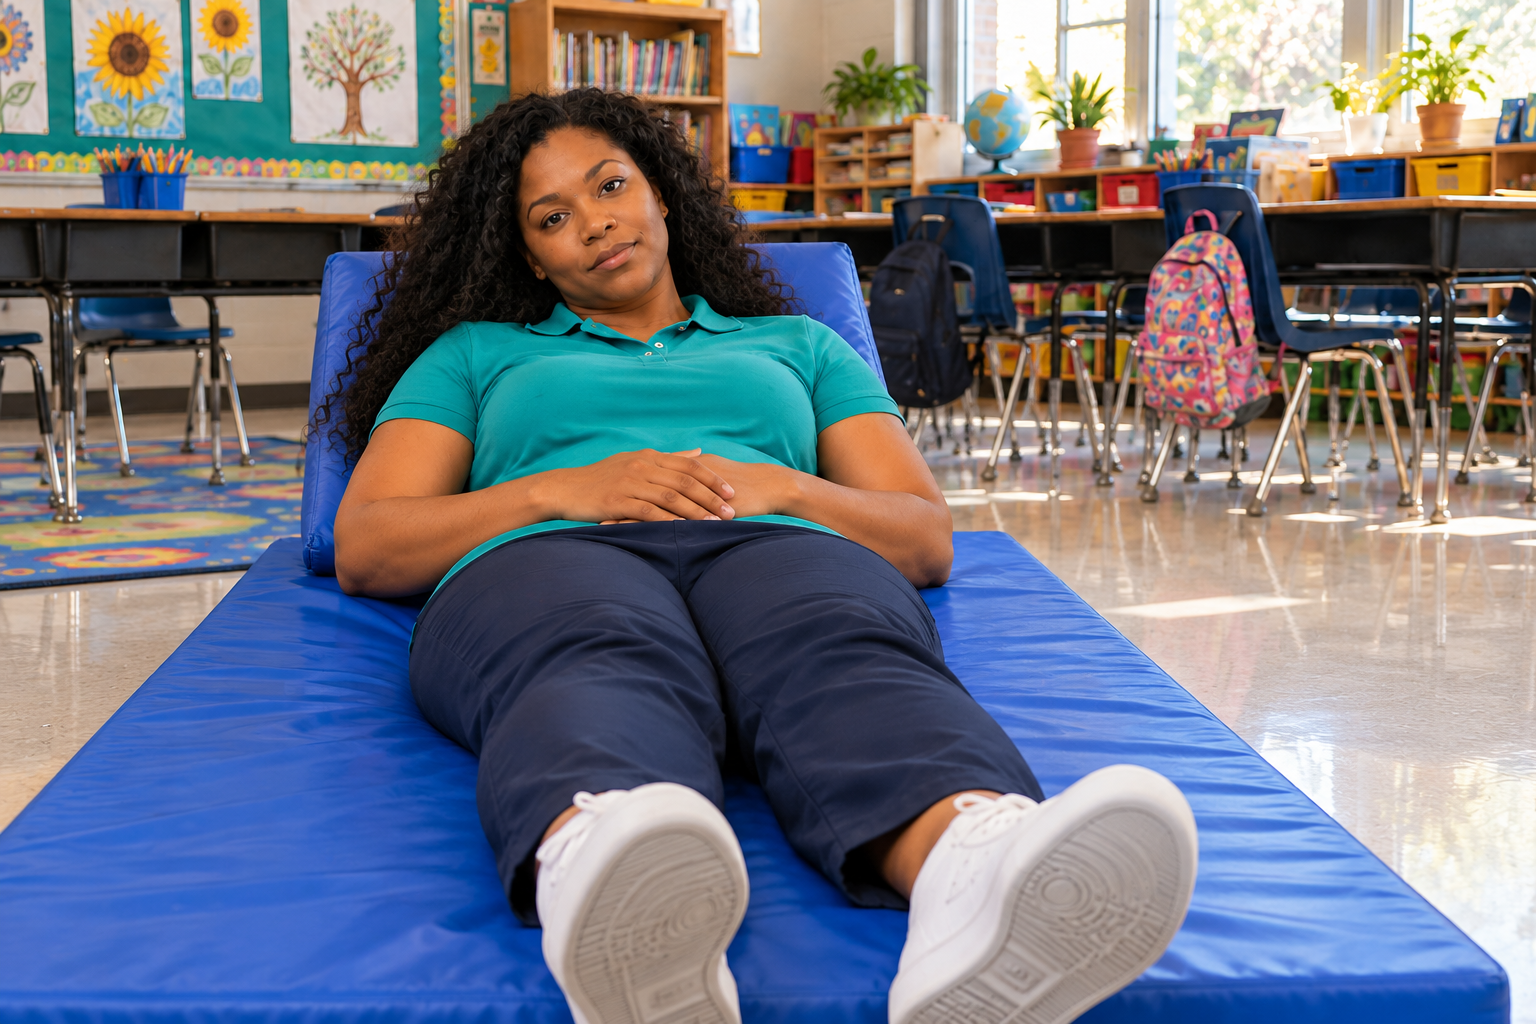
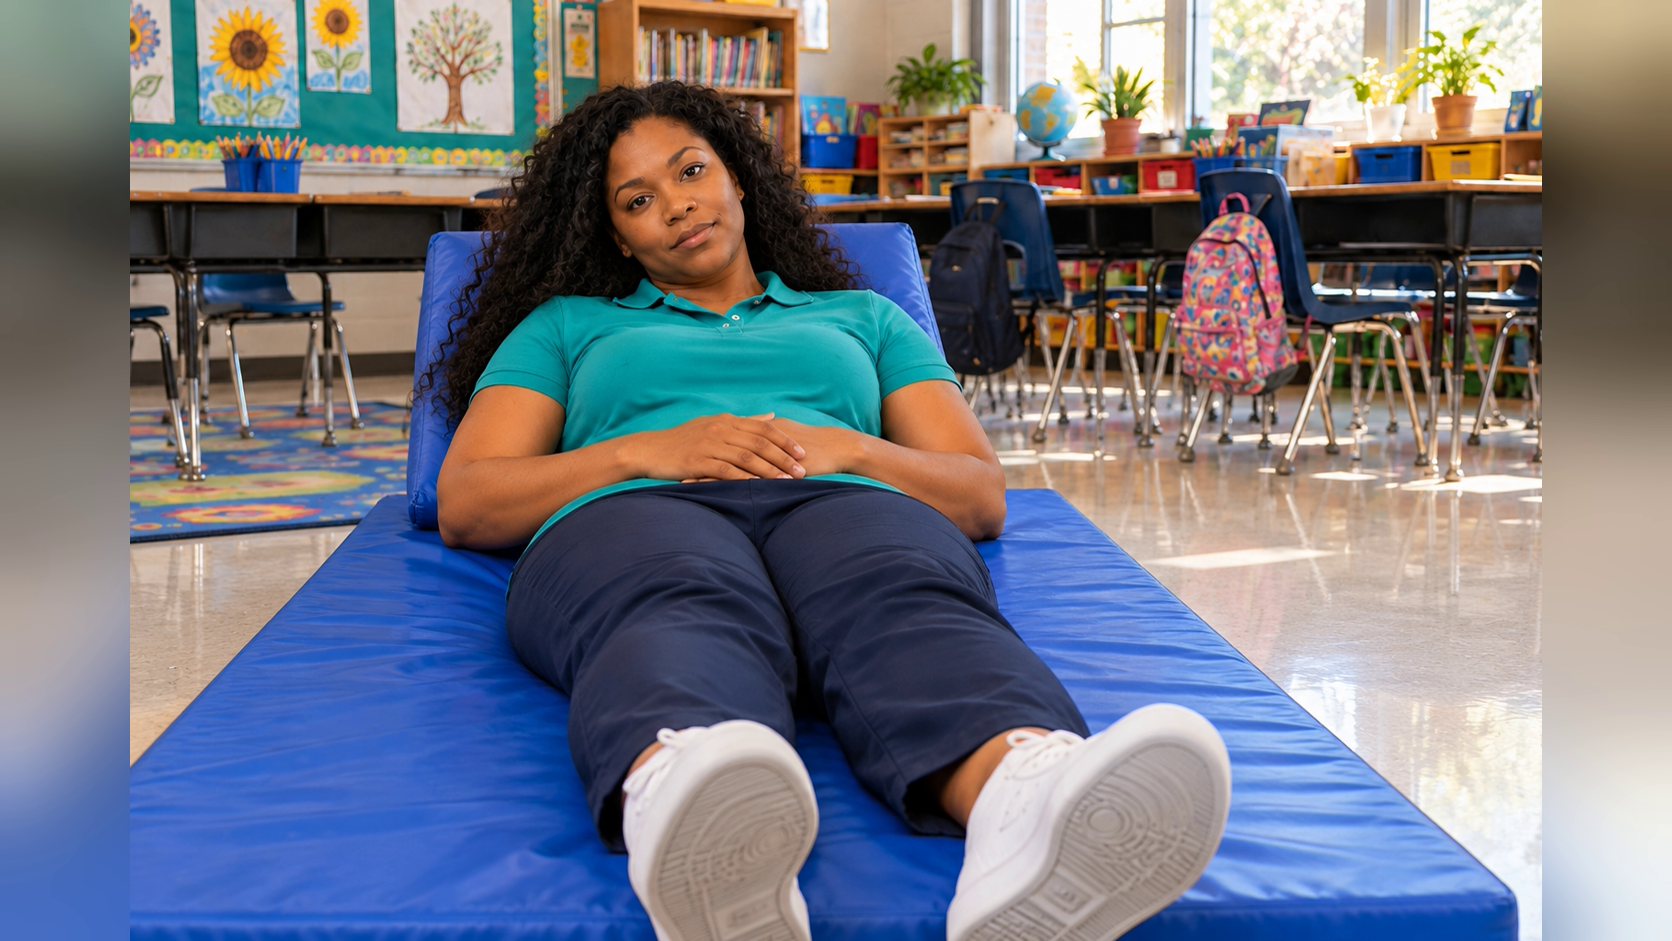
feat(simulator): animate school patients individually

diff --git a/src/components/simulator/SchoolPatientGallery.tsx b/src/components/simulator/SchoolPatientGallery.tsx
@@ -1,6 +1,7 @@
-import { useState } from 'react';
+import { type CSSProperties, useState } from 'react';
 
 type Pose = 'sentada' | 'deitada';
+type PatientPose = { open: string; closed: string };
 
 const schoolPatients = [
   {
@@ -9,8 +10,14 @@ const schoolPatients = [
     detail: 'Equipe pedagógica',
     color: 'teal',
     poses: {
-      sentada: '/simulador/personagens/escola-v20261022-realista/professora-sentada.png',
-      deitada: '/simulador/personagens/escola-v20261022-realista/professora-deitada.png'
+      sentada: {
+        open: '/simulador/personagens/escola-v20261022-realista/professora-sentada.png',
+        closed: '/simulador/personagens/escola-v20261022-realista/blink/professora-sentada-olhos-fechados.png'
+      },
+      deitada: {
+        open: '/simulador/personagens/escola-v20261022-realista/professora-deitada.png',
+        closed: '/simulador/personagens/escola-v20261022-realista/blink/professora-deitada-olhos-fechados.png'
+      }
     }
   },
   {
@@ -19,8 +26,14 @@ const schoolPatients = [
     detail: 'Equipe de apoio',
     color: 'amber',
     poses: {
-      sentada: '/simulador/personagens/escola-v20261022-realista/zelador-sentado.png',
-      deitada: '/simulador/personagens/escola-v20261022-realista/zelador-deitado.png'
+      sentada: {
+        open: '/simulador/personagens/escola-v20261022-realista/zelador-sentado.png',
+        closed: '/simulador/personagens/escola-v20261022-realista/blink/zelador-sentado-olhos-fechados.png'
+      },
+      deitada: {
+        open: '/simulador/personagens/escola-v20261022-realista/zelador-deitado.png',
+        closed: '/simulador/personagens/escola-v20261022-realista/blink/zelador-deitado-olhos-fechados.png'
+      }
     }
   },
   {
@@ -29,8 +42,14 @@ const schoolPatients = [
     detail: 'Idade escolar',
     color: 'violet',
     poses: {
-      sentada: '/simulador/personagens/escola-v20261022-realista/crianca-menina-sentada.png',
-      deitada: '/simulador/personagens/escola-v20261022-realista/crianca-menina-deitada.png'
+      sentada: {
+        open: '/simulador/personagens/escola-v20261022-realista/crianca-menina-sentada.png',
+        closed: '/simulador/personagens/escola-v20261022-realista/blink/crianca-menina-sentada-olhos-fechados.png'
+      },
+      deitada: {
+        open: '/simulador/personagens/escola-v20261022-realista/crianca-menina-deitada.png',
+        closed: '/simulador/personagens/escola-v20261022-realista/blink/crianca-menina-deitada-olhos-fechados.png'
+      }
     }
   },
   {
@@ -39,8 +58,14 @@ const schoolPatients = [
     detail: 'Idade escolar',
     color: 'blue',
     poses: {
-      sentada: '/simulador/personagens/escola-v20261022-realista/crianca-menino-sentado.png',
-      deitada: '/simulador/personagens/escola-v20261022-realista/crianca-menino-deitado.png'
+      sentada: {
+        open: '/simulador/personagens/escola-v20261022-realista/crianca-menino-sentado.png',
+        closed: '/simulador/personagens/escola-v20261022-realista/blink/crianca-menino-sentado-olhos-fechados.png'
+      },
+      deitada: {
+        open: '/simulador/personagens/escola-v20261022-realista/crianca-menino-deitado.png',
+        closed: '/simulador/personagens/escola-v20261022-realista/blink/crianca-menino-deitado-olhos-fechados.png'
+      }
     }
   },
   {
@@ -49,8 +74,14 @@ const schoolPatients = [
     detail: 'Lactente',
     color: 'rose',
     poses: {
-      sentada: '/simulador/personagens/escola-v20261022-realista/bebe-sentado.png',
-      deitada: '/simulador/personagens/escola-v20261022-realista/bebe-deitado.png'
+      sentada: {
+        open: '/simulador/personagens/escola-v20261022-realista/bebe-sentado.png',
+        closed: '/simulador/personagens/escola-v20261022-realista/blink/bebe-sentado-olhos-fechados.png'
+      },
+      deitada: {
+        open: '/simulador/personagens/escola-v20261022-realista/bebe-deitado.png',
+        closed: '/simulador/personagens/escola-v20261022-realista/blink/bebe-deitado-olhos-fechados.png'
+      }
     }
   }
 ] as const;
@@ -62,6 +93,39 @@ const dotClass: Record<typeof schoolPatients[number]['color'], string> = {
   blue: 'bg-blue-400',
   rose: 'bg-rose-400'
 };
+
+function AnimatedPatientPhoto({
+  pose,
+  label,
+  delay,
+}: {
+  pose: PatientPose;
+  label: string;
+  delay: number;
+}) {
+  const style = { '--school-patient-blink-delay': `${delay}s` } as CSSProperties;
+
+  return (
+    <div
+      className="school-patient-photo"
+      data-animation="respiracao-e-piscar"
+      data-patient="individual"
+      style={style}
+    >
+      <img
+        src={pose.open}
+        alt={`${label}, animação individual de respiração`}
+        className="school-patient-photo__image school-patient-photo__image--open"
+      />
+      <img
+        src={pose.closed}
+        alt=""
+        aria-hidden="true"
+        className="school-patient-photo__image school-patient-photo__image--closed"
+      />
+    </div>
+  );
+}
 
 export function SchoolPatientGallery() {
   const [selectedId, setSelectedId] = useState('professora');
@@ -105,13 +169,13 @@ export function SchoolPatientGallery() {
           })}
         </div>
 
-        <div className="overflow-hidden rounded-2xl border border-slate-300/30 bg-slate-950 shadow-xl">
-          <div className="flex aspect-[4/3] items-center justify-center bg-gradient-to-b from-slate-900 to-slate-950 p-3">
-            <img
+        <article className="overflow-hidden rounded-2xl border border-slate-300/30 bg-slate-950 shadow-xl" data-patient-card={selected.id}>
+          <div className="flex aspect-[1672/941] items-center justify-center bg-gradient-to-b from-slate-900 to-slate-950 p-3">
+            <AnimatedPatientPhoto
               key={`${selected.id}-${pose}`}
-              src={selected.poses[pose]}
-              alt={`${selected.label}, posição ${pose}`}
-              className="h-full w-full object-contain drop-shadow-[0_18px_24px_rgba(0,0,0,0.35)]"
+              pose={selected.poses[pose]}
+              label={`${selected.label}, posição ${pose}`}
+              delay={schoolPatients.findIndex(patient => patient.id === selected.id) * 0.65}
             />
           </div>
           <div className="space-y-3 border-t border-white/10 p-4 text-white">
@@ -119,6 +183,10 @@ export function SchoolPatientGallery() {
               <p className="text-[10px] font-black uppercase tracking-wider text-slate-400">Paciente selecionado</p>
               <p className="mt-1 text-base font-bold">{selected.label}</p>
               <p className="text-xs text-slate-400">{selected.detail}</p>
+              <p className="mt-2 flex items-center gap-2 text-xs font-semibold text-emerald-300">
+                <span className="school-patient-breath-dot" aria-hidden="true" />
+                Respiração visível e piscar natural
+              </p>
             </div>
             <div className="grid grid-cols-2 gap-2" role="group" aria-label="Posição do paciente">
               {(['sentada', 'deitada'] as Pose[]).map(option => (
@@ -138,7 +206,7 @@ export function SchoolPatientGallery() {
               ))}
             </div>
           </div>
-        </div>
+        </article>
       </div>
     </section>
   );

diff --git a/src/index.css b/src/index.css
@@ -43,6 +43,99 @@
   }
 }
 
+/* Individual school patients use HTML/CSS frames for a visible breathing cycle and blink. */
+.school-patient-photo {
+  position: relative;
+  width: 100%;
+  height: 100%;
+  min-height: 18rem;
+  overflow: hidden;
+  isolation: isolate;
+}
+
+.school-patient-photo__image {
+  position: absolute;
+  inset: 0;
+  width: 100%;
+  height: 100%;
+  object-fit: contain;
+  filter: drop-shadow(0 18px 24px rgba(0, 0, 0, 0.35));
+  will-change: transform, opacity;
+}
+
+.school-patient-photo__image--open {
+  animation: school-patient-breathe 3.8s ease-in-out infinite;
+}
+
+.school-patient-photo__image--closed {
+  opacity: 0;
+  animation:
+    school-patient-breathe 3.8s ease-in-out infinite,
+    school-patient-blink 5.8s ease-in-out var(--school-patient-blink-delay) infinite;
+}
+
+.school-patient-breath-dot {
+  display: inline-block;
+  width: 0.55rem;
+  height: 0.55rem;
+  border-radius: 9999px;
+  background: #34d399;
+  box-shadow: 0 0 0 0.25rem rgba(52, 211, 153, 0.12);
+  animation: school-patient-breath-dot 3.8s ease-in-out infinite;
+}
+
+@keyframes school-patient-breathe {
+  0%,
+  100% {
+    transform: translateY(0) scale(1);
+  }
+
+  42% {
+    transform: translateY(-0.35rem) scale(1.035);
+  }
+
+  58% {
+    transform: translateY(-0.22rem) scale(1.02);
+  }
+}
+
+@keyframes school-patient-blink {
+  0%,
+  91%,
+  100% {
+    opacity: 0;
+  }
+
+  94%,
+  96% {
+    opacity: 1;
+  }
+
+  98% {
+    opacity: 0;
+  }
+}
+
+@keyframes school-patient-breath-dot {
+  0%,
+  100% {
+    transform: scale(0.8);
+    opacity: 0.55;
+  }
+
+  45% {
+    transform: scale(1.35);
+    opacity: 1;
+  }
+}
+
+@media (prefers-reduced-motion: reduce) {
+  .school-patient-photo__image,
+  .school-patient-breath-dot {
+    animation: none;
+  }
+}
+
 /* Scrollbars follow the União palette in every page and reader panel. */
 * {
   scrollbar-width: thin;
